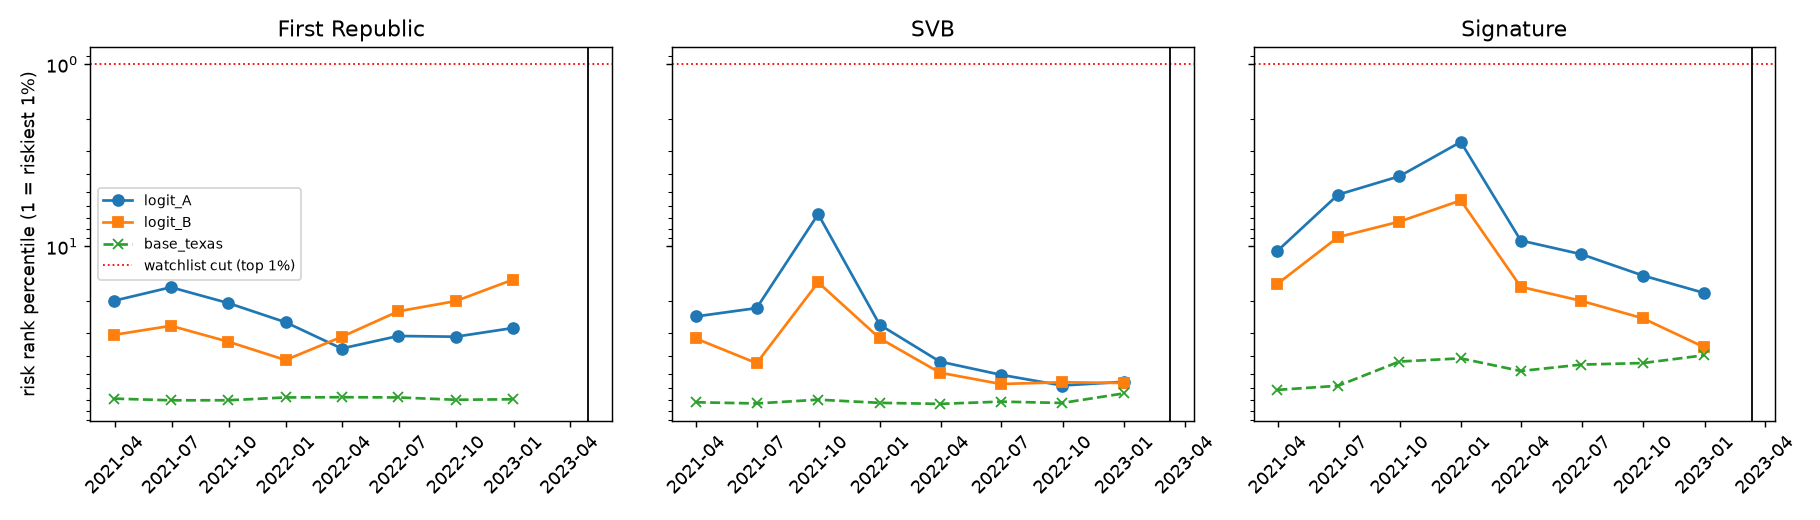
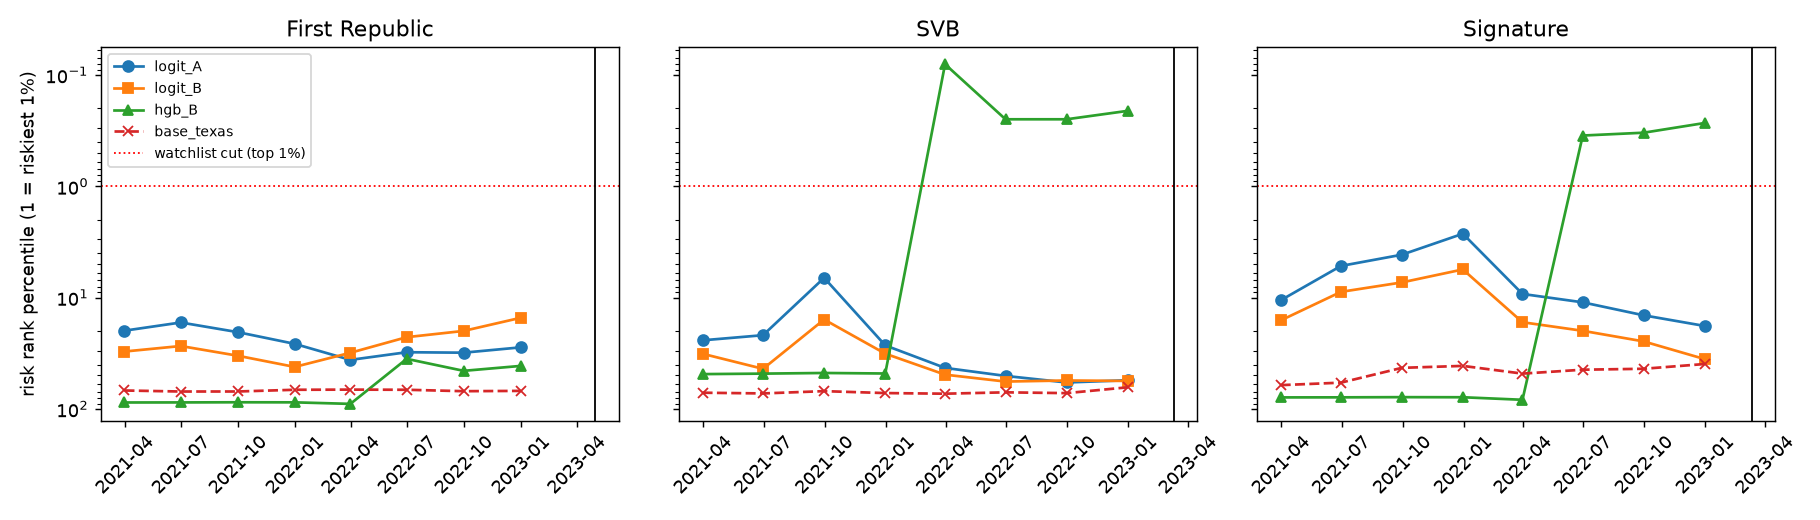
README from backtest output; chart adds hgb_B; analyst drops raw size

diff --git a/analyst.py b/analyst.py
@@ -21,7 +21,8 @@ def payload(rows, peers, model, cols):
     for k, (i, r) in enumerate(rows.iloc[::-1].iterrows()):
         pct = {c: round(float((peers.loc[peers.repdte == r.repdte, c] < r[c]).mean() * 100), 1) for c in cols}
         quarters.append({"quarter": f"T-{k}" if k else "T", "risk_rank_pct": round(r.pct_logit_B * 100, 2),
-                         "values": {c: None if pd.isna(r[c]) else round(float(r[c]), 4) for c in cols},
+                         # exact size would let the LLM recognise a large bank; percentile only for log_assets
+                         "values": {c: None if pd.isna(r[c]) else round(float(r[c]), 4) for c in cols if c != "log_assets"},
                          "peer_percentile": pct, "score_contribution": contrib.loc[i].round(3).to_dict()})
     return quarters
 

diff --git a/backtest.py b/backtest.py
@@ -126,7 +126,7 @@ def main():
 
     fig, axes = plt.subplots(1, 3, figsize=(14, 4), sharey=True)
     for ax, (short, g) in zip(axes, rows.groupby("short")):
-        for col, style in [("logit_A", "o-"), ("logit_B", "s-"), ("base_texas", "x--")]:
+        for col, style in [("logit_A", "o-"), ("logit_B", "s-"), ("hgb_B", "^-"), ("base_texas", "x--")]:
             ax.plot(g.repdte, g[col], style, label=col)
         ax.axhline(WATCH * 100, color="red", lw=1, ls=":", label="watchlist cut (top 1%)")
         ax.axvline(g.faildate.iloc[0], color="black", lw=1)

diff --git a/README.md b/README.md
@@ -1,0 +1,82 @@
+# Bank failure early warning: an honest backtest
+
+The question: could public call-report data have flagged US bank failures in advance, including Silicon Valley Bank, Signature and First Republic in 2023?
+The model was trained only on 2001–2018 data, frozen, and then run **once** on 2019–2024.
+
+## Headline
+
+**The preregistered model would not have flagged SVB, Signature or First Republic.**
+At their final reports before failure, the main model (logistic, Model B) ranked them at the 56th, 36th and 15th risk percentile: ordinary banks, nowhere near the top-1% watchlist.
+
+**A preregistered nonlinear check (gradient boosting on the same features and the same pre-2019 data) did flag two of the three:**
+- **SVB** was in the riskiest 0.1–0.25% for four straight reports. It was first flagged on the 2022Q1 report, public around 2022-05-15, which is **299 days before failure**.
+- **Signature** was in the riskiest 0.35% from its 2022Q2 report onward: **210 days early**.
+- **First Republic** was never flagged by any model.
+- **The price:** that model's watchlist included **97 different banks during 2022, and only 3 failed within a year.**
+
+The gradient-boosting model was named in advance as a robustness check, not the headline. Its overall ranking quality is poor (PR-AUC 0.06 against 0.18 for the logistic model). With three named cases it may have got lucky, so treat it as a lead, not a result.
+
+## All 18 test-period failures (2019–2025)
+Watchlist = riskiest 1% each quarter (about 47 banks). "Hit" = on the watchlist in any of the bank's last 4 reports before failure.
+
+| score | banks hit (of 18) | 95% CI | recall@1% (bank-quarters) | precision@1% | PR-AUC |
+|---|---|---|---|---|---|
+| Model A, classic logistic | 9 | 28–72% | 0.41 | 2.1% | 0.21 |
+| **Model B, + rate/liquidity logistic (primary)** | **10** | 33–78% | 0.43 | 2.1% | 0.18 |
+| Model B, gradient boosting (check) | 11 | 39–83% | 0.52 | 2.6% | 0.06 |
+| Texas ratio alone | 8 | 22–67% | 0.41 | 2.1% | 0.02 |
+| Leverage ratio alone | 8 | 22–67% | 0.40 | 2.0% | 0.01 |
+| Random | 0 | – | 0.00 | 0.0% | 0.00 |
+
+Reading the table:
+- The models beat the simple baselines on ranking quality (PR-AUC), but catch only one or two more failures than a single Texas ratio.
+- About 98% of watchlist entries are banks that did not fail within a year.
+- Most failures the models do catch are small banks with visible credit trouble. That is the 2008-style pattern these models learned.
+
+## What the model learned, and why it missed SVB
+From 2001–2018 data, Model B learned:
+- **Unrealized losses** raise risk (+0.35).
+- **Uninsured deposits** carry essentially no weight (−0.06).
+- **A large securities book** *lowers* risk (−0.47). In 2008, banks heavy in securities were the safe ones.
+
+SVB's 2022Q4 numbers were:
+- Unrealized losses equal to 104% of Tier 1 capital (99th percentile).
+- 86% uninsured deposits (99th percentile).
+- 56% of assets in securities (96th percentile).
+
+The logistic model's linear weights cancelled these out. Gradient boosting can learn combinations of extremes, and it caught the pattern. The data had the signal; the training history did not contain a failure like this.
+
+## How validity was protected
+- **Preregistration.** [FEATURES.md](FEATURES.md) (features, label, split, metrics, watchlist size) was committed before any training (`b01ce2f`).
+- **Frozen model.** Models were trained only on `REPDTE` 2001Q1–2018Q1 and committed with SHA-256 hashes (`2d0d0ff`) before test scoring. [backtest.py](backtest.py) refuses to score if a hash differs. Results were committed unedited (`Backtest results` commit).
+- **Embargo.** The last training label window closes on the same day the first test report is public (2019-05-15). No bank failed on or near that date, so no failure event is a positive in both splits. [test_validity.py](test_validity.py) asserts this.
+- **Point-in-time.** A report counts as public 45 days after quarter end. Lead times are measured from that date, never from the quarter end.
+- **Labels.** Only FDIC-listed failures count. Mergers under stress (e.g. PacWest) are not counted as hits.
+- **LLM analyst.** [analyst.py](analyst.py) writes explanations only and is excluded from every metric. It sees ratios, peer percentiles and score contributions, with no name, place, date or exact size. Real names are attached after the memo is written.
+- **Leakage tests.** `pytest test_validity.py` runs 7 checks against the real data.
+
+## Deviations from the plan, disclosed
+- The 4-quarter embargo was added while writing the preregistration, before any data was seen. The plan had trained through 2018Q4.
+- FEATURES.md says the label windows close "before" test reports are public. In fact they close on the same day. Confirmed: no failure falls on that date.
+- The CV picked C = 0.001, the edge of the preregistered grid, for both models. The grid was not widened.
+- The plan expected about 10 test-period failures; the data has 18.
+- After the single backtest run, `hgb_B` was added to the chart and the descriptive near-miss table [out/nearmiss_2022Q4_hgbB.csv](out/nearmiss_2022Q4_hgbB.csv) was written. Every metric file is byte-identical to the first run.
+- The near-miss table is descriptive only. Banks widely reported as stressed in 2023, such as PacWest and Western Alliance, are *not* in the 2022Q4 top 25. Most entries are small banks.
+
+## Limitations
+- BankFind serves the latest amended figures, not the figures originally filed.
+- With 18 failures, the confidence intervals are wide; the three 2023 failures are three data points.
+- `uninsured` uses all deposits (including foreign offices) as the denominator. That is why SVB shows 86% here rather than the widely quoted ~94%.
+
+## Run it
+```bash
+uv venv .venv && uv pip install --python .venv/bin/python pandas scikit-learn pyarrow matplotlib requests anthropic pytest
+.venv/bin/python fetch.py        # ~10 min, FDIC BankFind API
+.venv/bin/python features.py
+.venv/bin/python -m pytest test_validity.py
+.venv/bin/python train.py        # do not re-run after backtest; it would change the hashes
+.venv/bin/python backtest.py
+.venv/bin/python analyst.py      # needs ANTHROPIC_API_KEY; writes out/memos/
+```
+
+Outputs in `out/`: `metrics.csv`, `failed_banks.csv`, `named_ranks.csv`, `watchlist_by_quarter.csv`, `scores.parquet` (every test score, for tracing), `named_cases.png`.
